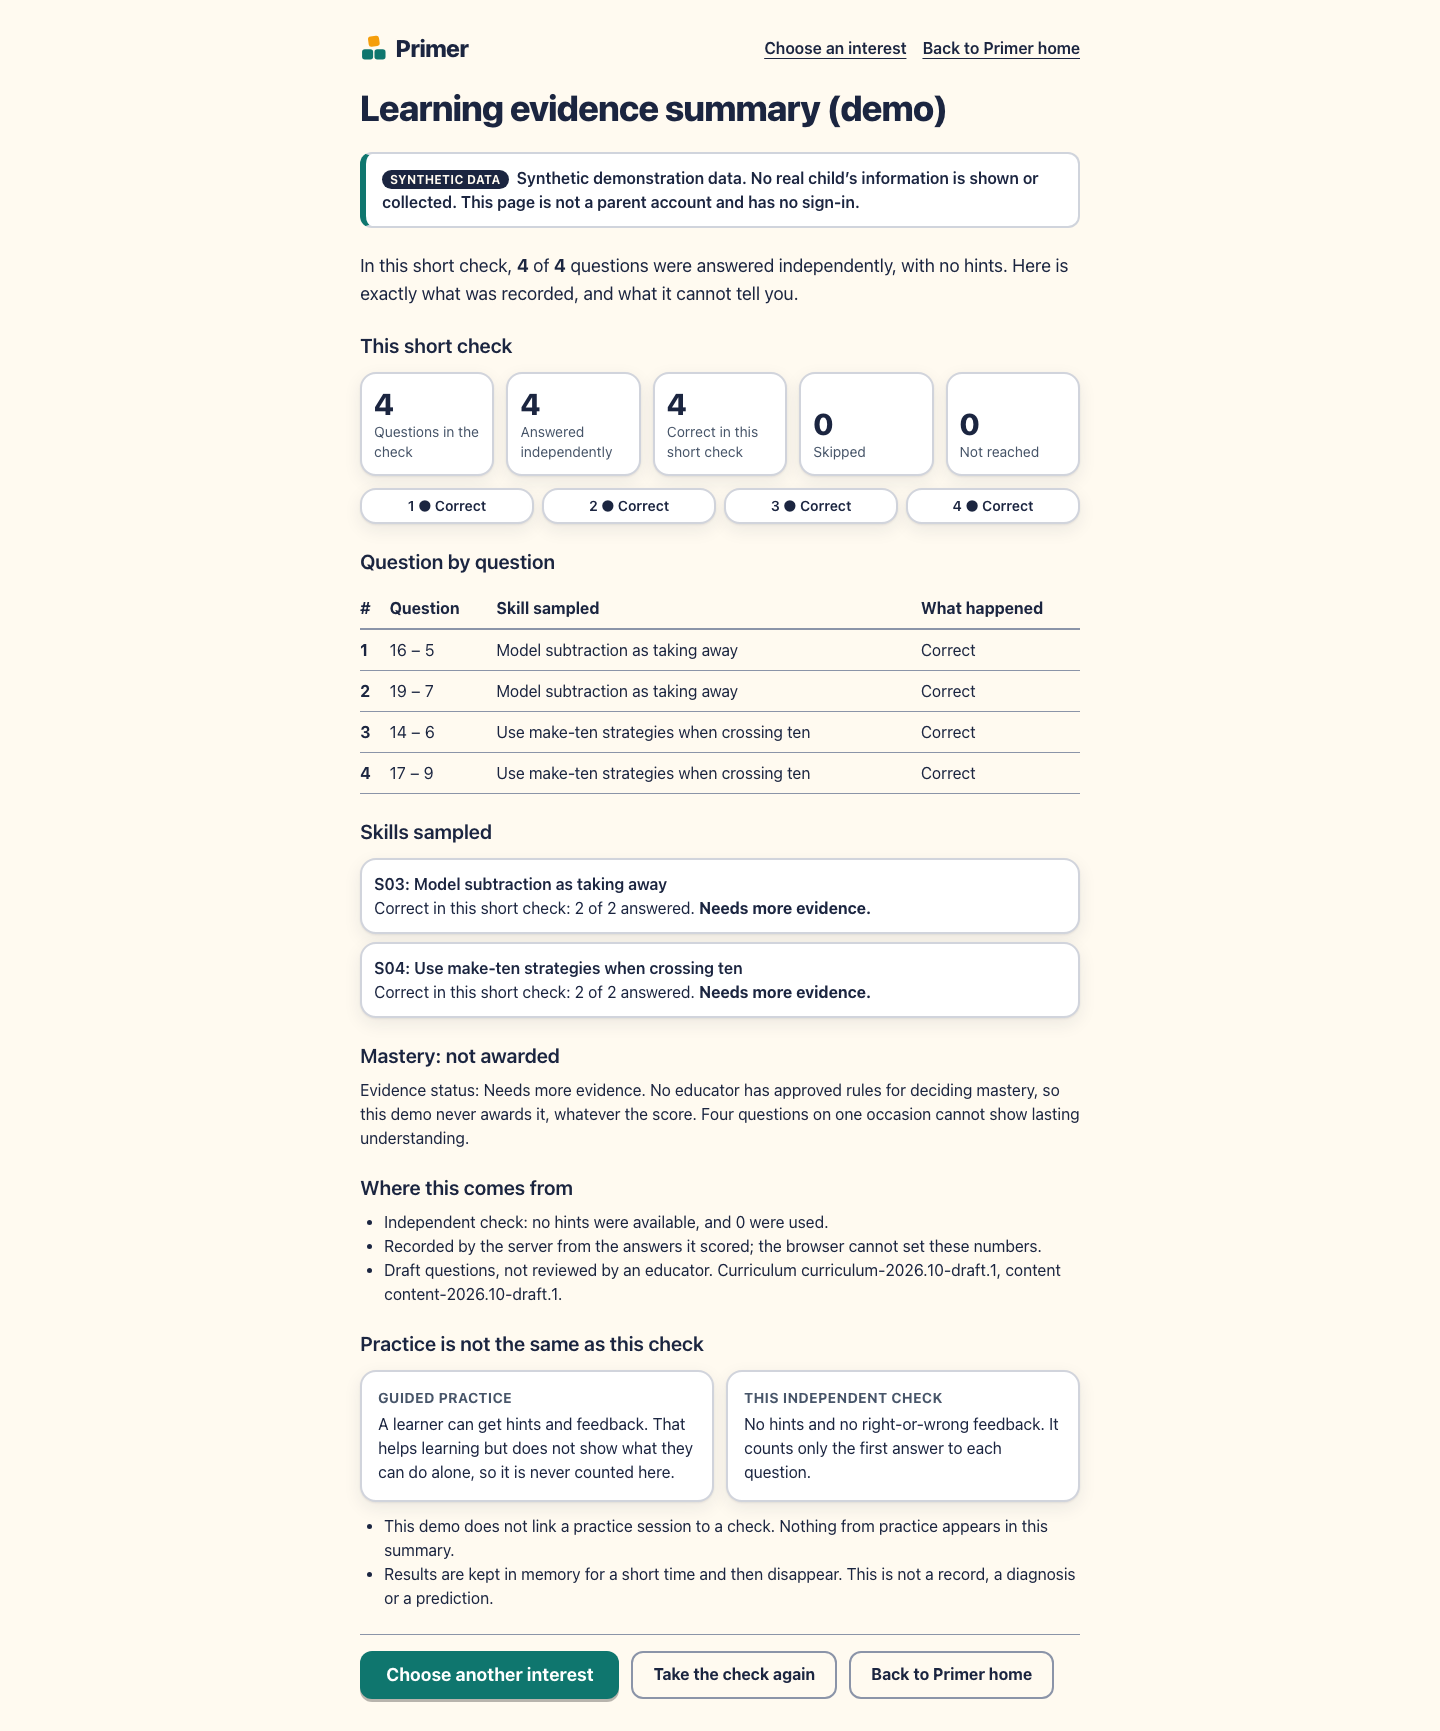
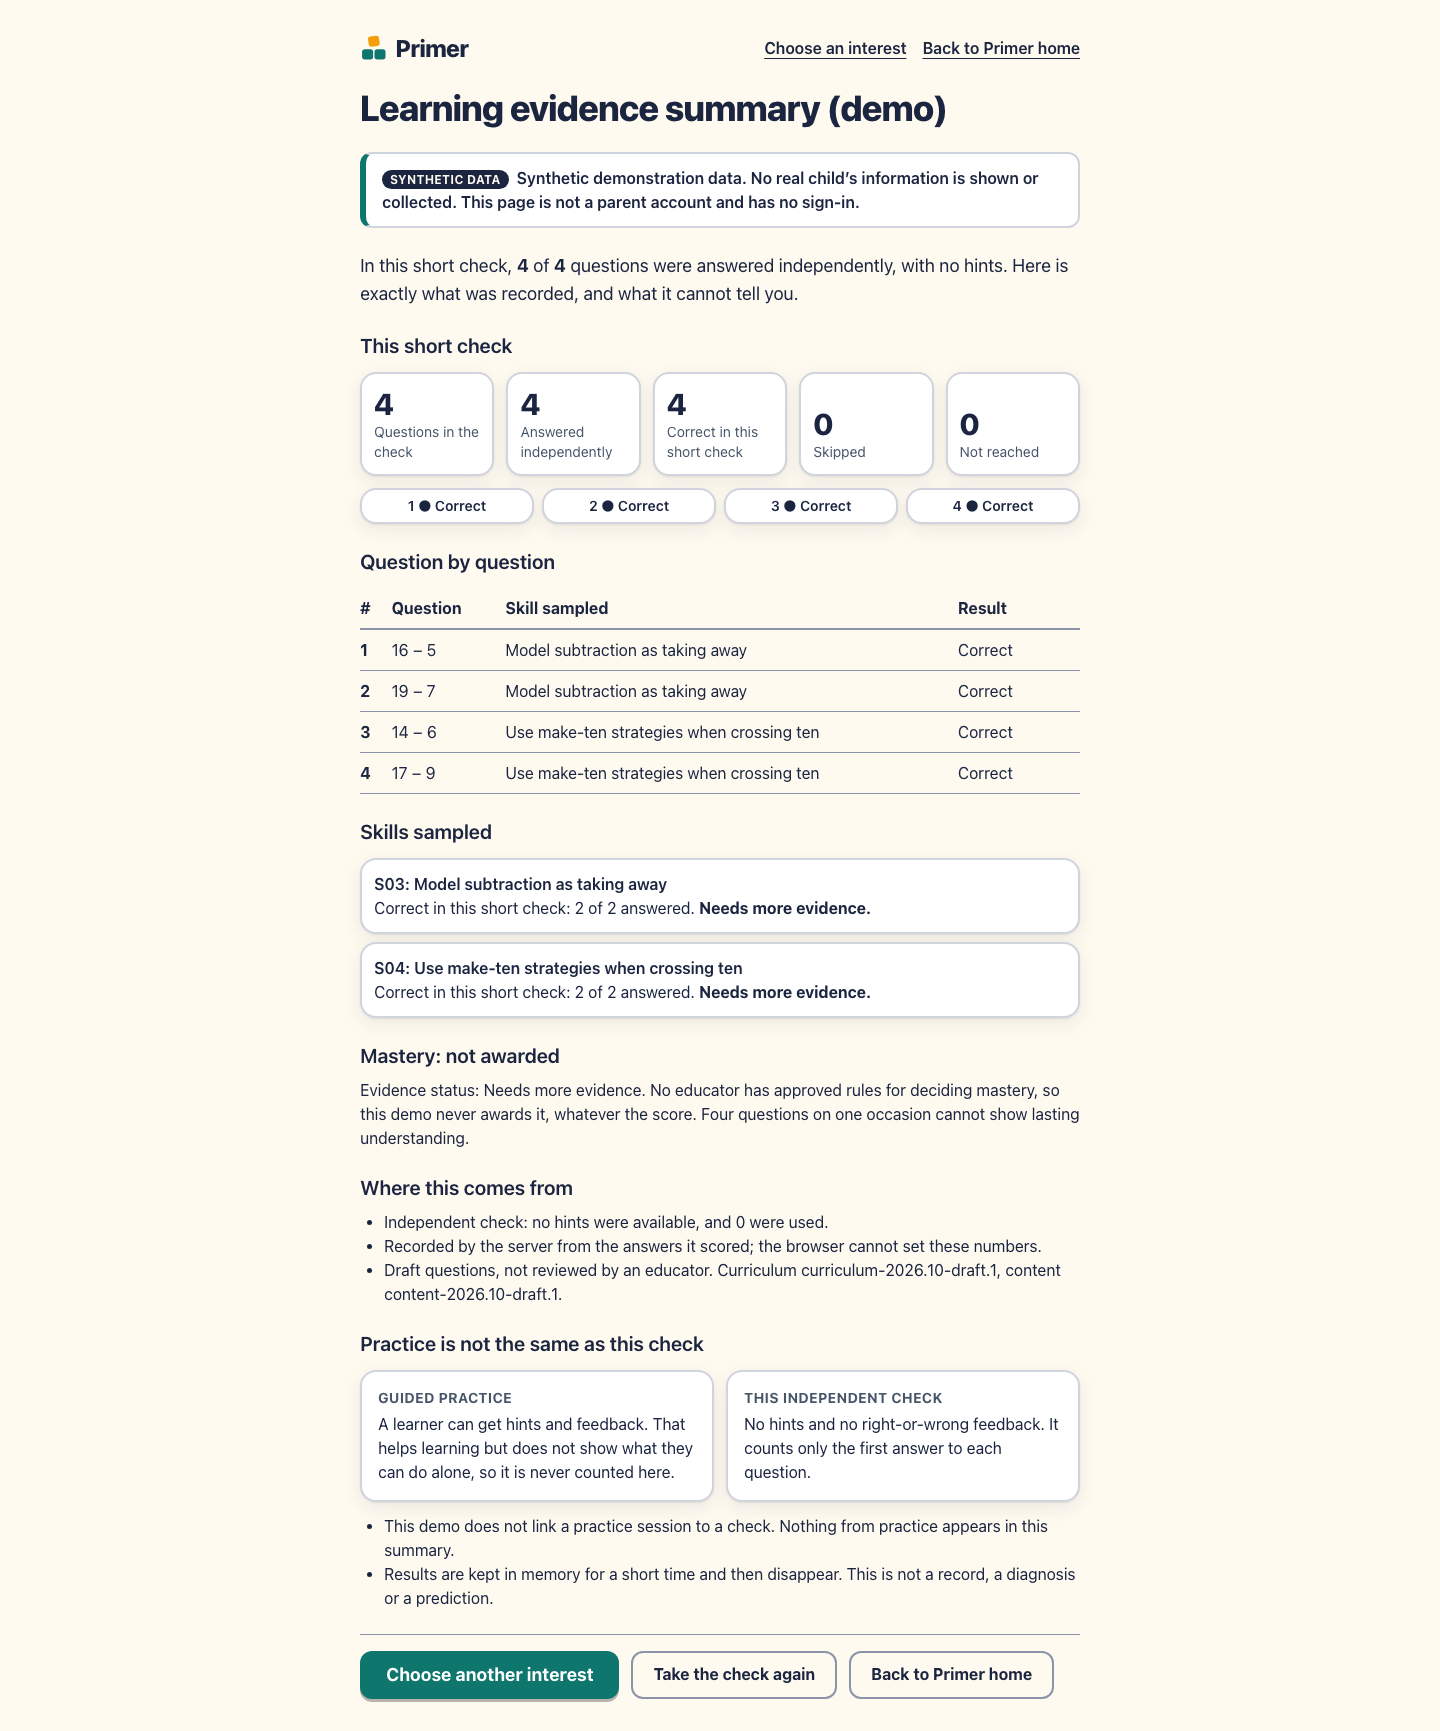
fix: summary result column no longer breaks mid-word; per-word split check; final screenshots
Claude-Session: https://claude.ai/code/session_01SzLfvnxmyQF8ziAQs7g5TS

Changed region(s): [[0.3438, 0.3432, 0.5625, 0.4679], [0.6562, 0.3432, 0.7188, 0.4679], [0.2812, 0.3432, 0.3125, 0.3744]]

diff --git a/tests/e2e/five-worlds.spec.ts b/tests/e2e/five-worlds.spec.ts
@@ -534,6 +534,32 @@ test("the adult summary leads in plain words, compares practice and check, and o
   await expect(page.getByTestId("summary-lead")).toContainText(
     "4 of 4 questions were answered independently, with no hints",
   );
+  // No table header breaks mid-word at narrow widths (it once read "happene d").
+  for (const width of [320, 390]) {
+    await page.setViewportSize({ width, height: 800 });
+    const broken = await page.evaluate(() => {
+      // A word split across two lines has more than one client rect.
+      const split: string[] = [];
+      for (const th of document.querySelectorAll("thead th")) {
+        const node = th.firstChild;
+        if (!node || node.nodeType !== Node.TEXT_NODE) continue;
+        const text = node.textContent ?? "";
+        for (const m of text.matchAll(/\S+/g)) {
+          const r = document.createRange();
+          r.setStart(node, m.index ?? 0);
+          r.setEnd(node, (m.index ?? 0) + m[0].length);
+          if (r.getClientRects().length > 1) split.push(m[0]);
+        }
+      }
+      return split;
+    });
+    expect(broken, `${width}px`).toEqual([]);
+    expect(
+      await page.evaluate(
+        () => document.documentElement.scrollWidth - innerWidth,
+      ),
+    ).toBeLessThanOrEqual(0);
+  }
   await expect(
     page.getByText("Guided practice", { exact: true }),
   ).toBeVisible();

diff --git a/src/components/assessment/ProgressSummary.tsx b/src/components/assessment/ProgressSummary.tsx
@@ -180,8 +180,8 @@ function Body({ state }: { state: State }) {
                 <th scope="col" className="py-2 pr-3">
                   Skill sampled
                 </th>
-                <th scope="col" className="py-2">
-                  What happened
+                <th scope="col" className="min-w-[5.5rem] py-2">
+                  Result
                 </th>
               </tr>
             </thead>
@@ -193,7 +193,9 @@ function Body({ state }: { state: State }) {
                   </th>
                   <td className="py-2 pr-3">{item.expression}</td>
                   <td className="py-2 pr-3">{item.skill}</td>
-                  <td className="py-2">{OUTCOME[item.outcome]}</td>
+                  <td className="min-w-[5.5rem] py-2">
+                    {OUTCOME[item.outcome]}
+                  </td>
                 </tr>
               ))}
             </tbody>
